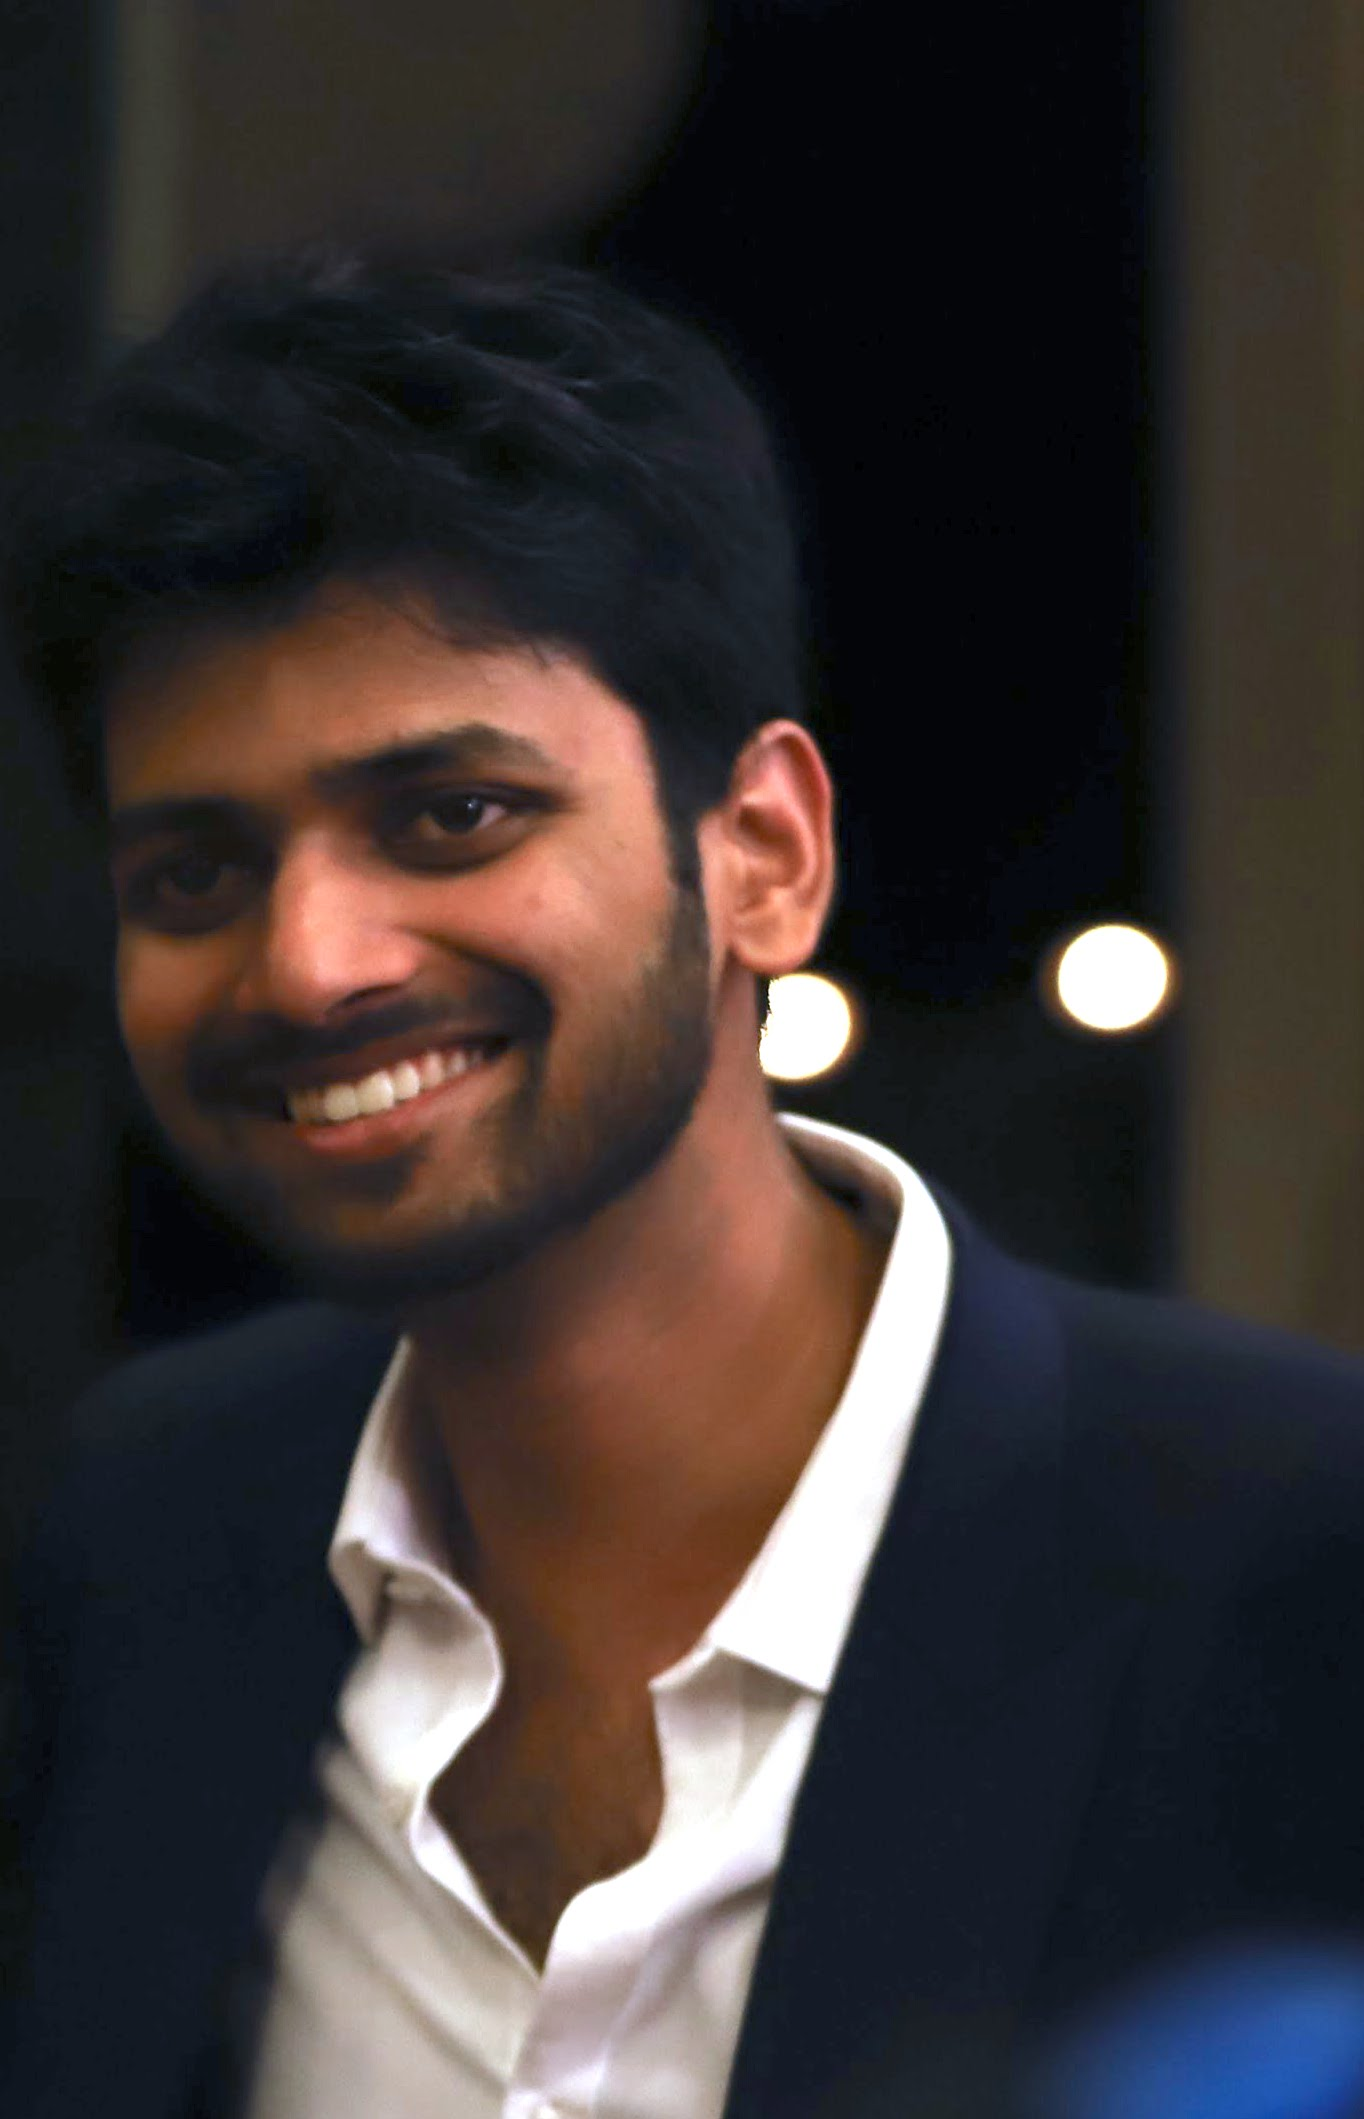
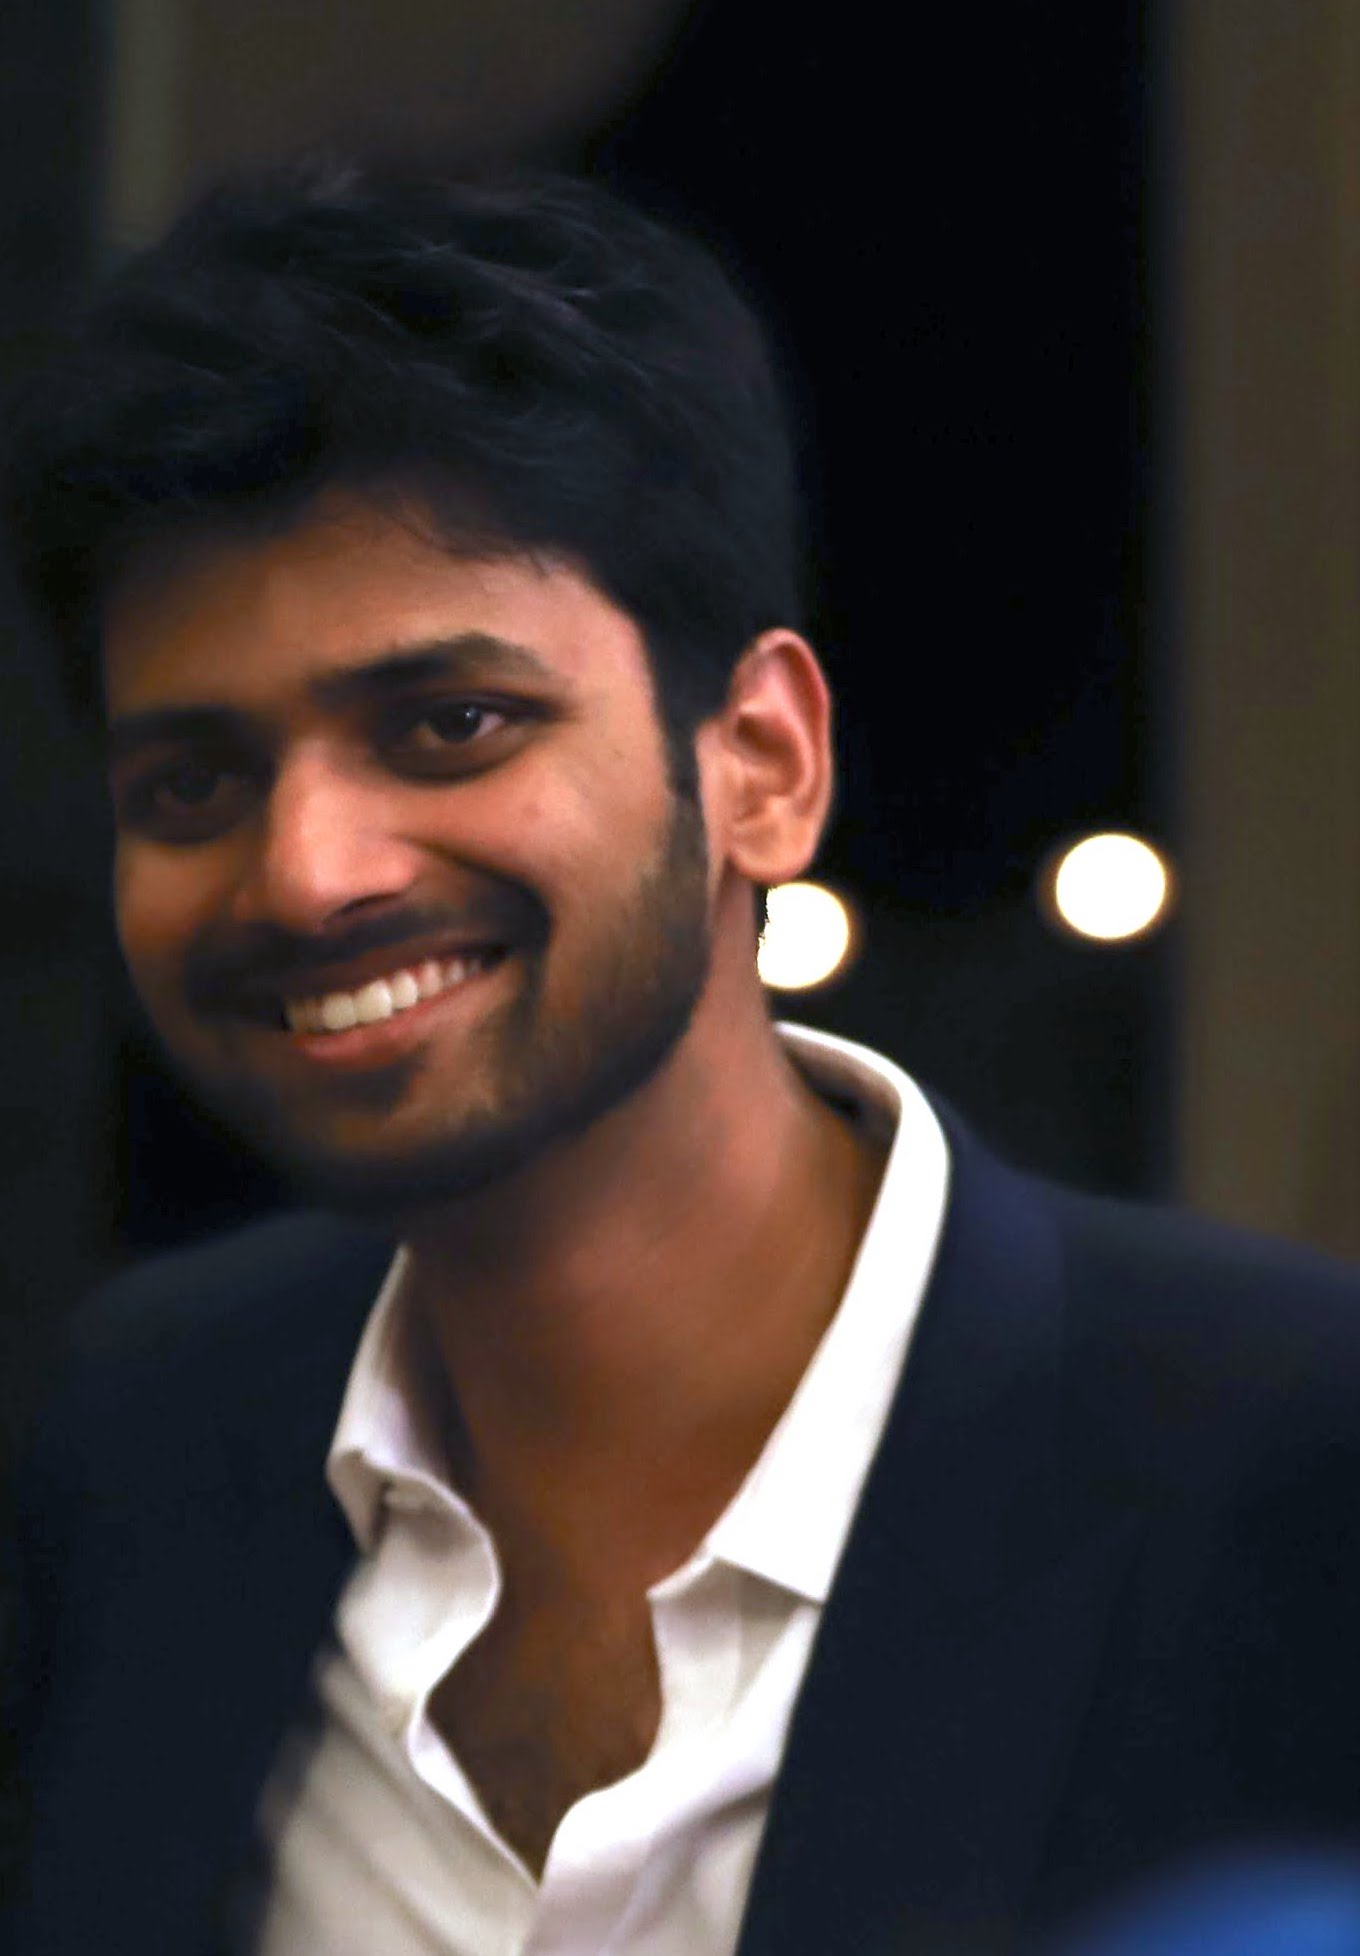
updates

diff --git a/index.html b/index.html
@@ -17,7 +17,7 @@
 <h1>Ashish Kumar </h1>
 </div>
 <table class="imgtable"><tr><td>
-<a href="pic.jpg"><img src="pic.jpg" alt="alt text" width="210px" height="260px" /></a>&nbsp;</td>
+<a href="pic.jpg"><img src="pic.jpg" alt="alt text" width="170px" height="260px" /></a>&nbsp;</td>
 <td align="left"><h3>Ph.D. Student, <a href="https://eecs.berkeley.edu/">EECS U.C. Berkeley</a> <br /></h3>
 <p>I recently joined UC Berkeley as a PhD Student, where I will be working with the Computer Vision Group. Before coming here, I was a Research Fellow at Microsoft Research India, where I worked with <a href="http://www.manikvarma.org/">Dr. Manik Varma</a> and <a href="https://www.microsoft.com/en-us/research/people/prajain/">Dr. Prateek Jain</a> on developing Resource Efficient Machine algorithms. I am broadly interested in AI + Systems, with a focus on inference time efficiency. I completed my undergraduate study at Indian Institute of Technology Jodhpur, with a major in Computer Science and Engineering. My Bachelor's Thesis was advised by <a href="http://home.iitj.ac.in/~goravb/">Dr. Gaurav Bhatnagar</a>.
 <br /><br />
@@ -83,7 +83,7 @@ Height: 83 meters</p>
 </td></tr></table>
 <div id="footer">
 <div id="footer-text">
-Page generated 2017-12-19 20:39:31 IST, by <a href="http://jemdoc.jaboc.net/">jemdoc</a>.
+Page generated 2017-12-19 21:02:35 IST, by <a href="http://jemdoc.jaboc.net/">jemdoc</a>.
 </div>
 </div>
 </td>
